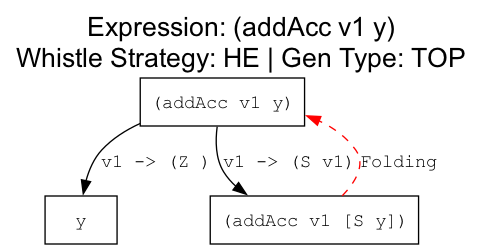
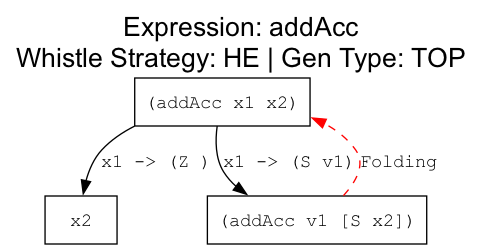
Вывод let значений в графе + переименование переменных в x1 x2

diff --git a/main.py b/main.py
@@ -65,47 +65,50 @@ def main():
     # --- 3. Парсинг выражения и Авто-определение сигнатуры ---
     start_var_types = {}
 
-    # Если введено просто имя (например, 'add3'), а не выражение со скобками
+    start_var_types = {}
+
+    # Если введено просто имя функции (без скобок) — строим канонический вызов
     if "(" not in args.expr and ")" not in args.expr:
         func_name = args.expr
 
-        # Ищем сигнатуру функции
         sig = next((s for s in prog.signatures if s.name == func_name), None)
-
-        if sig:
-            # Пытаемся взять имена аргументов из первого правила этой функции
-            first_rule = next((r for r in prog.rules if r.pattern.name == func_name), None)
-
-            arg_names = []
-            if first_rule:
-                for i, p in enumerate(first_rule.pattern.params):
-                    # Если в паттерне переменная — берем её имя, если конструктор — генерируем v...
-                    if isinstance(p, Var):
-                        arg_names.append(p.name)
-                    else:
-                        arg_names.append(f"v{i+1}")
-            else:
-                # Если правил почему-то нет, просто генерируем v1, v2...
-                arg_names = [f"v{i+1}" for i in range(len(sig.arg_types))]
-
-            # Формируем итоговое выражение: (func x y z)
-            args.expr = f"({func_name} {' '.join(arg_names)})"
-
-            # Автоматически заполняем типы из сигнатуры
-            for i, t_expr in enumerate(sig.arg_types):
-                start_var_types[arg_names[i]] = t_expr
-
-            print(f"--- Auto-inferred signature: {args.expr} ---")
-        else:
+        if not sig:
             print(f"Error: Function '{func_name}' not found in signatures.")
             return
 
-    # Парсим уже готовое (или введенное вручную) выражение
-    try:
-        start_expr = Parser(tokenize(args.expr)).parse_expr()
-    except Exception as e:
-        print(f"Expression Parse Error: {e}")
-        return
+        # Канонические имена аргументов: sc1, sc2, ...
+        arg_names = [f"x{i+1}" for i in range(len(sig.arg_types))]
+
+        # Собираем строку стартового выражения, но не пытаемся “угадать” имена из правил
+        start_expr_str = f"({func_name} {' '.join(arg_names)})"
+
+        # Заполняем типы из сигнатуры
+        for i, t_expr in enumerate(sig.arg_types):
+            start_var_types[arg_names[i]] = t_expr
+
+        print(f"--- Auto-inferred call: {start_expr_str} ---")
+
+        # Парсим уже эту строку
+        try:
+            start_expr = Parser(tokenize(start_expr_str)).parse_expr()
+        except Exception as e:
+            print(f"Expression Parse Error: {e}")
+            return
+
+    else:
+        # Иначе парсим то, что ввёл пользователь
+        try:
+            start_expr = Parser(tokenize(args.expr)).parse_expr()
+        except Exception as e:
+            print(f"Expression Parse Error: {e}")
+            return
+
+        # Парсим уже готовое (или введенное вручную) выражение
+        try:
+            start_expr = Parser(tokenize(args.expr)).parse_expr()
+        except Exception as e:
+            print(f"Expression Parse Error: {e}")
+            return
 
     # --- 4. Разбор типов переменных (если переданы вручную через -t) ---
     # Ручные типы имеют приоритет над автоматическими

diff --git a/sll/test_msg.py b/sll/test_msg.py
@@ -26,12 +26,12 @@ class TestMSG(unittest.TestCase):
         res = msg(t1, t2)
         # Ожидаем: v1
         self.assertIsInstance(res.gen, Var)
-        self.assertEqual(res.gen.name, "v1")
+        self.assertEqual(res.gen.name, "h1")
 
         # sub1: v1 -> [Z]
-        self.assertEqual(str(res.sub1['v1']), "[Z]")
+        self.assertEqual(str(res.sub1['h1']), "[Z]")
         # sub2: v1 -> [S x]
-        self.assertEqual(str(res.sub2['v1']), "[S x]")
+        self.assertEqual(str(res.sub2['h1']), "[S x]")
 
     def test_common_structure(self):
         """Совпадение сверху, различие внутри"""
@@ -45,13 +45,13 @@ class TestMSG(unittest.TestCase):
         res = msg(t1, t2)
 
         # Проверяем структуру
-        self.assertEqual(str(res.gen), "[Cons v1 xs]")
+        self.assertEqual(str(res.gen), "[Cons h1 xs]")
 
         # Проверяем подстановки
         # v1 -> [Z]
-        self.assertEqual(str(res.sub1['v1']), "[Z]")
+        self.assertEqual(str(res.sub1['h1']), "[Z]")
         # v1 -> [S x]
-        self.assertEqual(str(res.sub2['v1']), "[S x]")
+        self.assertEqual(str(res.sub2['h1']), "[S x]")
 
     def test_double_conflict(self):
         """Два различия в разных местах"""
@@ -63,10 +63,10 @@ class TestMSG(unittest.TestCase):
         t2 = self._expr("(f [C] [D])")
 
         res = msg(t1, t2)
-        self.assertEqual(str(res.gen), "(f v1 v2)")
+        self.assertEqual(str(res.gen), "(f h1 h2)")
 
-        self.assertEqual(str(res.sub1['v1']), "[A]")
-        self.assertEqual(str(res.sub1['v2']), "[B]")
+        self.assertEqual(str(res.sub1['h1']), "[A]")
+        self.assertEqual(str(res.sub1['h2']), "[B]")
 
     def test_tight_generalization(self):
         """
@@ -91,7 +91,7 @@ class TestMSG(unittest.TestCase):
 
         # Проверяем, что в результате только ДВЕ переменные (v1 и v2), а не 4
         # Текстовое представление должно быть (f v1 v2 v1 v2)
-        self.assertEqual(str(res.gen), "(f v1 v2 v1 v2)")
+        self.assertEqual(str(res.gen), "(f h1 h2 h1 h2)")
 
         # Проверяем количество уникальных ключей в подстановке
         self.assertEqual(len(res.sub1), 2)
@@ -106,7 +106,7 @@ class TestMSG(unittest.TestCase):
         t2 = self._expr("(f a b)")
 
         res = msg(t1, t2)
-        self.assertEqual(str(res.gen), "(f v1 v2)")
+        self.assertEqual(str(res.gen), "(f h1 h2)")
         self.assertEqual(len(res.sub1), 2)
 
     def test_msg_substitute_roundtrip(self):
@@ -119,7 +119,7 @@ class TestMSG(unittest.TestCase):
         res = msg(t1, t2)
 
         # Ожидаем, что MSG нашел одинаковые пары и выдал (f v1 [S v1] v1)
-        self.assertEqual(str(res.gen), "(f v1 [S v1] v1)")
+        self.assertEqual(str(res.gen), "(f h1 [S h1] h1)")
 
         # Проверяем восстановление t1
         t1_recovered = substitute(res.gen, res.sub1)

diff --git a/sll/supercompiler.py b/sll/supercompiler.py
@@ -1,6 +1,6 @@
 from typing import Dict, Optional, List
 
-from sll.ast_nodes import Program, Expr, FCall, TypeExpr
+from sll.ast_nodes import Program, Expr, FCall, TypeExpr, Var, IntLit, Ctr
 from sll.he import he
 from sll.msg import msg, natural_key
 from sll.process_tree import Node, Contraction
@@ -145,16 +145,33 @@ class Supercompiler:
         # Мы проверяем свисток только для Вызовов Функций (FCall).
         # Конструкторы (Ctr) безопасны, мы их просто декомпозируем.
         # Если этого не сделать, add(a,b) свистнет на S(add(..)), и мы не дойдем до свертки.
-        if not isinstance(node.expr, FCall):
-            return None
+        def same_head(a, b) -> bool:
+            # не свистим по переменным и числам
+            if isinstance(a, (Var, IntLit)) or isinstance(b, (Var, IntLit)):
+                return False
+
+            # FCall сравниваем только с FCall того же имени
+            if isinstance(a, FCall) and isinstance(b, FCall):
+                return a.name == b.name
+
+            # Ctr сравниваем только с Ctr того же конструктора (S с S, Cons с Cons, ...)
+            if isinstance(a, Ctr) and isinstance(b, Ctr):
+                return a.name == b.name
+
+            return False
+        # if not isinstance(node.expr, FCall):
+        #     return None
 
         for alpha in node.ancestors():
-            if alpha.expr.name == "PROGRAM_FOREST":
+            if getattr(alpha.expr, "name", None) == "PROGRAM_FOREST":
+                continue
+
+            if not same_head(alpha.expr, node.expr):
                 continue
 
             # Сравниваем только FCall с FCall
-            if not isinstance(alpha.expr, FCall):
-                continue
+            # if not isinstance(alpha.expr, FCall):
+            #     continue
 
             is_dangerous = False
 
@@ -216,7 +233,7 @@ class Supercompiler:
 
             # Используем поле contraction, чтобы запомнить имя переменной let-связывания
             # (var_name='v1', pattern=None)
-            let_info = Contraction(var_name=v_name, pattern=None)
+            let_info = Contraction(var_name=v_name, pattern=None, value=val_expr)
 
             alpha.add_child(child, let_info)
             unprocessed.append(child)

diff --git a/sll/exporter.py b/sll/exporter.py
@@ -110,7 +110,7 @@ def to_dot(root: Node, dev_mode=False) -> str:
                     edge_label = f"{v} -> {p}"
                 else:
                     # Обобщение: let v = ...
-                    edge_label = f"let {v}"
+                    edge_label = f"let {v} = {to_tagged_str(child.contraction.value)}"
 
             lines.append(f'    {uid} -> {child_id} [label="{edge_label}"];')
 

diff --git a/sll/msg.py b/sll/msg.py
@@ -28,7 +28,7 @@ class MSGBuilder:
     def _fresh_var_name(self) -> str:
         """Генерирует следующее имя переменной: v1, v2, v3..."""
         self.counter += 1
-        return f"v{self.counter}"
+        return f"h{self.counter}"
 
     def generalize(self, t1: Expr, t2: Expr) -> GenResult:
         self.counter = 0

diff --git a/sll/process_tree.py b/sll/process_tree.py
@@ -13,6 +13,7 @@ class Contraction:
     """
     var_name: str
     pattern: Optional[Pattern]
+    value: Optional[Expr] = None
 
 @dataclass(eq=False)
 class Node:
